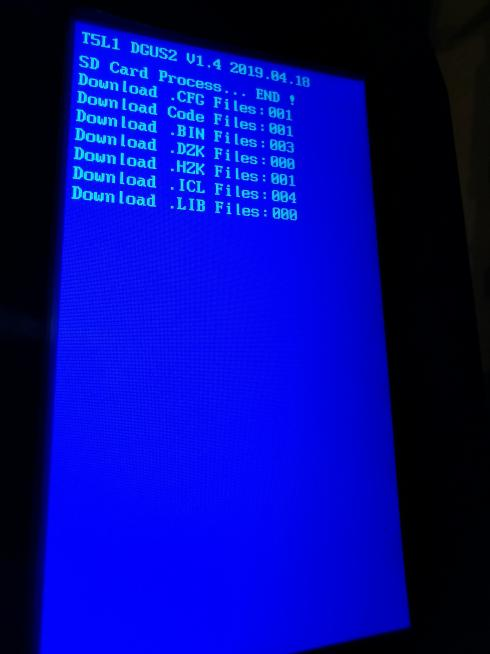
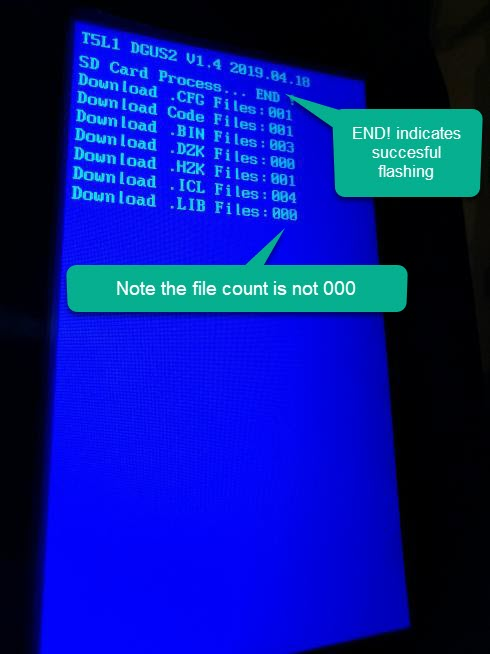
Improve DWIN flashing instructions with examples

Changed region(s): [[0.1224, 0.3364, 0.8571, 0.4893], [0.5816, 0.1223, 1.0, 0.3364]]

diff --git a/README.md b/README.md
@@ -10,6 +10,8 @@ You can open the .dgus project file in the [`src\DWIN`](src\DWIN) folder:
 
 To build a firmware archive for distribution, use the `build.cmd` script.
 
+You need to have Powershell Core installed (pwsh).
+
 ### Images / screen images sources
 
 You can find the source files where the screen bitmaps are generated from in the [`src\images_src`](src\images_src) folder.
